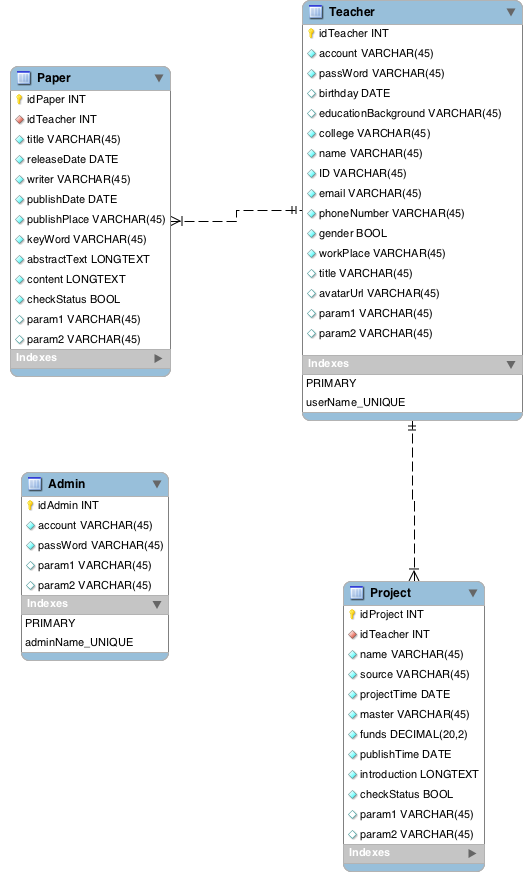
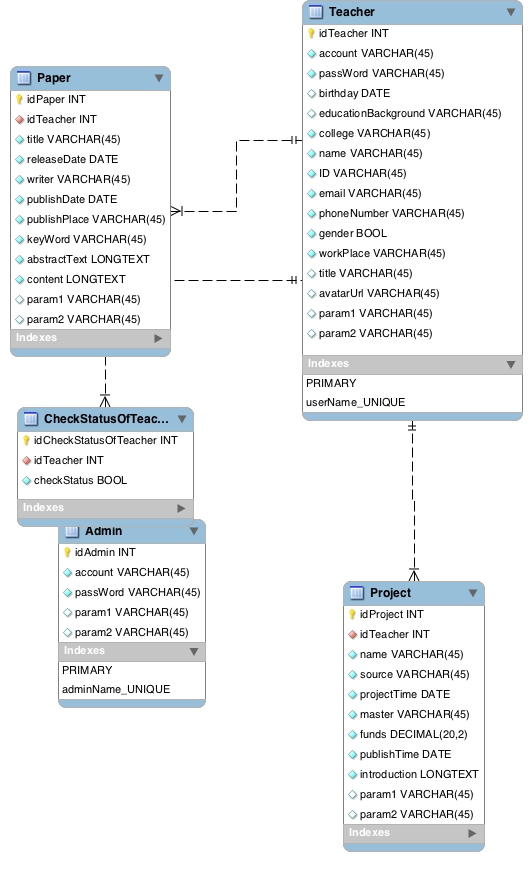
change: entity & datainfo for checkstatus

Changed region(s): [[0.0, 0.062, 0.391, 0.837], [0.5414, 0.0, 0.9925, 0.496], [0.6316, 0.62, 0.9323, 0.961]]

diff --git a/src/main/java/org/sel/rms/entity/CheckStatusOfTeacherEntity.java b/src/main/java/org/sel/rms/entity/CheckStatusOfTeacherEntity.java
@@ -1,0 +1,66 @@
+package org.sel.rms.entity;
+
+import javax.persistence.*;
+
+/**
+ * Created by xubowei on 29/10/2016.
+ */
+@Entity
+@Table(name = "CheckStatusOfTeacher", schema = "RMS", catalog = "")
+public class CheckStatusOfTeacherEntity {
+    private int idCheckStatusOfTeacher;
+    private int idTeacher;
+    private byte checkStatus;
+
+    @Id
+    @Column(name = "idCheckStatusOfTeacher", nullable = false)
+    public int getIdCheckStatusOfTeacher() {
+        return idCheckStatusOfTeacher;
+    }
+
+    public void setIdCheckStatusOfTeacher(int idCheckStatusOfTeacher) {
+        this.idCheckStatusOfTeacher = idCheckStatusOfTeacher;
+    }
+
+    @Basic
+    @Column(name = "idTeacher", nullable = false)
+    public int getIdTeacher() {
+        return idTeacher;
+    }
+
+    public void setIdTeacher(int idTeacher) {
+        this.idTeacher = idTeacher;
+    }
+
+    @Basic
+    @Column(name = "checkStatus", nullable = false)
+    public byte getCheckStatus() {
+        return checkStatus;
+    }
+
+    public void setCheckStatus(byte checkStatus) {
+        this.checkStatus = checkStatus;
+    }
+
+    @Override
+    public boolean equals(Object o) {
+        if (this == o) return true;
+        if (o == null || getClass() != o.getClass()) return false;
+
+        CheckStatusOfTeacherEntity that = (CheckStatusOfTeacherEntity) o;
+
+        if (idCheckStatusOfTeacher != that.idCheckStatusOfTeacher) return false;
+        if (idTeacher != that.idTeacher) return false;
+        if (checkStatus != that.checkStatus) return false;
+
+        return true;
+    }
+
+    @Override
+    public int hashCode() {
+        int result = idCheckStatusOfTeacher;
+        result = 31 * result + idTeacher;
+        result = 31 * result + (int) checkStatus;
+        return result;
+    }
+}

diff --git a/src/main/java/org/sel/rms/entity/ProjectEntity.java b/src/main/java/org/sel/rms/entity/ProjectEntity.java
@@ -18,7 +18,6 @@ public class ProjectEntity {
     private BigDecimal funds;
     private Date publishTime;
     private String introduction;
-    private byte checkStatus;
     private String param1;
     private String param2;
 
@@ -102,15 +101,6 @@ public class ProjectEntity {
         this.introduction = introduction;
     }
 
-    @Basic
-    @Column(name = "checkStatus", nullable = false)
-    public byte getCheckStatus() {
-        return checkStatus;
-    }
-
-    public void setCheckStatus(byte checkStatus) {
-        this.checkStatus = checkStatus;
-    }
 
     @Basic
     @Column(name = "param1", nullable = true, length = 45)
@@ -140,7 +130,6 @@ public class ProjectEntity {
         ProjectEntity that = (ProjectEntity) o;
 
         if (idProject != that.idProject) return false;
-        if (checkStatus != that.checkStatus) return false;
         if (name != null ? !name.equals(that.name) : that.name != null) return false;
         if (source != null ? !source.equals(that.source) : that.source != null) return false;
         if (projectTime != null ? !projectTime.equals(that.projectTime) : that.projectTime != null) return false;
@@ -164,7 +153,6 @@ public class ProjectEntity {
         result = 31 * result + (funds != null ? funds.hashCode() : 0);
         result = 31 * result + (publishTime != null ? publishTime.hashCode() : 0);
         result = 31 * result + (introduction != null ? introduction.hashCode() : 0);
-        result = 31 * result + (int) checkStatus;
         result = 31 * result + (param1 != null ? param1.hashCode() : 0);
         result = 31 * result + (param2 != null ? param2.hashCode() : 0);
         return result;

diff --git a/src/main/java/org/sel/rms/entity/PaperEntity.java b/src/main/java/org/sel/rms/entity/PaperEntity.java
@@ -18,7 +18,6 @@ public class PaperEntity {
     private String keyWord;
     private String abstractText;
     private String content;
-    private byte checkStatus;
     private String param1;
     private String param2;
 
@@ -112,15 +111,6 @@ public class PaperEntity {
         this.content = content;
     }
 
-    @Basic
-    @Column(name = "checkStatus", nullable = false)
-    public byte getCheckStatus() {
-        return checkStatus;
-    }
-
-    public void setCheckStatus(byte checkStatus) {
-        this.checkStatus = checkStatus;
-    }
 
     @Basic
     @Column(name = "param1", nullable = true, length = 45)
@@ -150,7 +140,6 @@ public class PaperEntity {
         PaperEntity that = (PaperEntity) o;
 
         if (idPaper != that.idPaper) return false;
-        if (checkStatus != that.checkStatus) return false;
         if (title != null ? !title.equals(that.title) : that.title != null) return false;
         if (releaseDate != null ? !releaseDate.equals(that.releaseDate) : that.releaseDate != null) return false;
         if (writer != null ? !writer.equals(that.writer) : that.writer != null) return false;
@@ -176,7 +165,6 @@ public class PaperEntity {
         result = 31 * result + (keyWord != null ? keyWord.hashCode() : 0);
         result = 31 * result + (abstractText != null ? abstractText.hashCode() : 0);
         result = 31 * result + (content != null ? content.hashCode() : 0);
-        result = 31 * result + (int) checkStatus;
         result = 31 * result + (param1 != null ? param1.hashCode() : 0);
         result = 31 * result + (param2 != null ? param2.hashCode() : 0);
         return result;

diff --git a/src/main/java/org/sel/rms/repository/CheckStatusOfTeacherRepository.java b/src/main/java/org/sel/rms/repository/CheckStatusOfTeacherRepository.java
@@ -1,0 +1,11 @@
+package org.sel.rms.repository;
+import org.sel.rms.entity.CheckStatusOfTeacherEntity;
+import org.springframework.data.jpa.repository.JpaRepository;
+
+
+/**
+* 生成于2016/10/29
+*/
+public interface CheckStatusOfTeacherRepository extends JpaRepository<CheckStatusOfTeacherEntity,Integer> {
+
+}

diff --git a/src/main/java/org/sel/rms/service/PaperService.java b/src/main/java/org/sel/rms/service/PaperService.java
@@ -8,4 +8,11 @@ import org.springframework.stereotype.Service;
 */
 public interface PaperService {
 
+    public void publishPaper(PaperEntity paperEntity);
+
+    public void modifyPaper(PaperEntity paperEntity);
+
+    public void deletePaper(PaperEntity paperEntity);
+
+
 }
